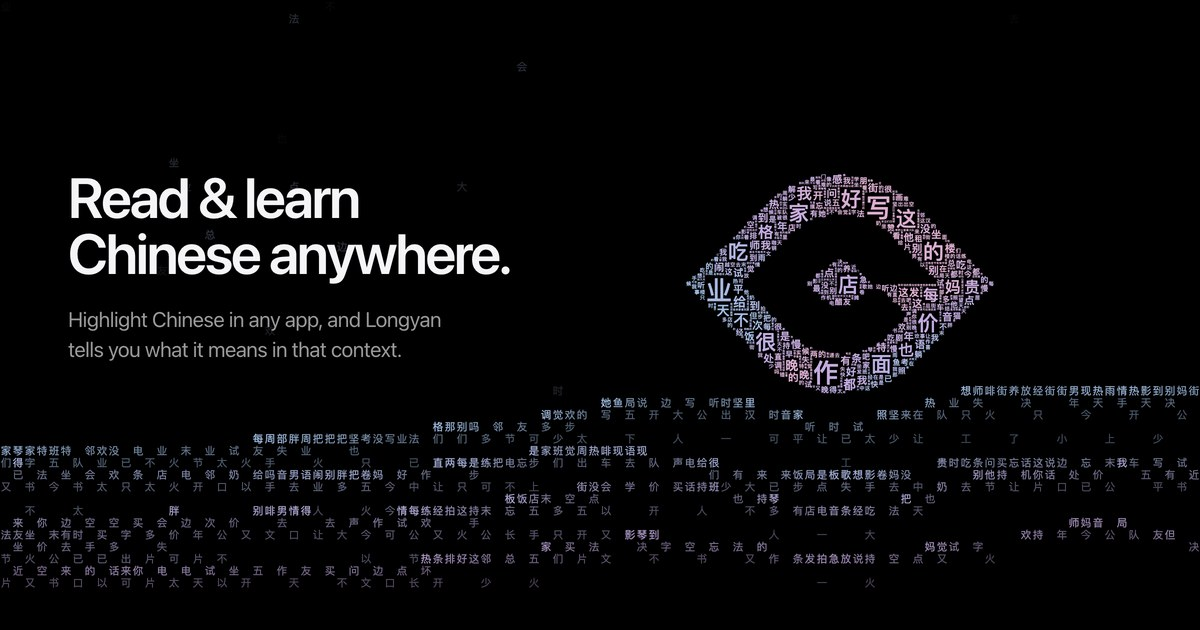
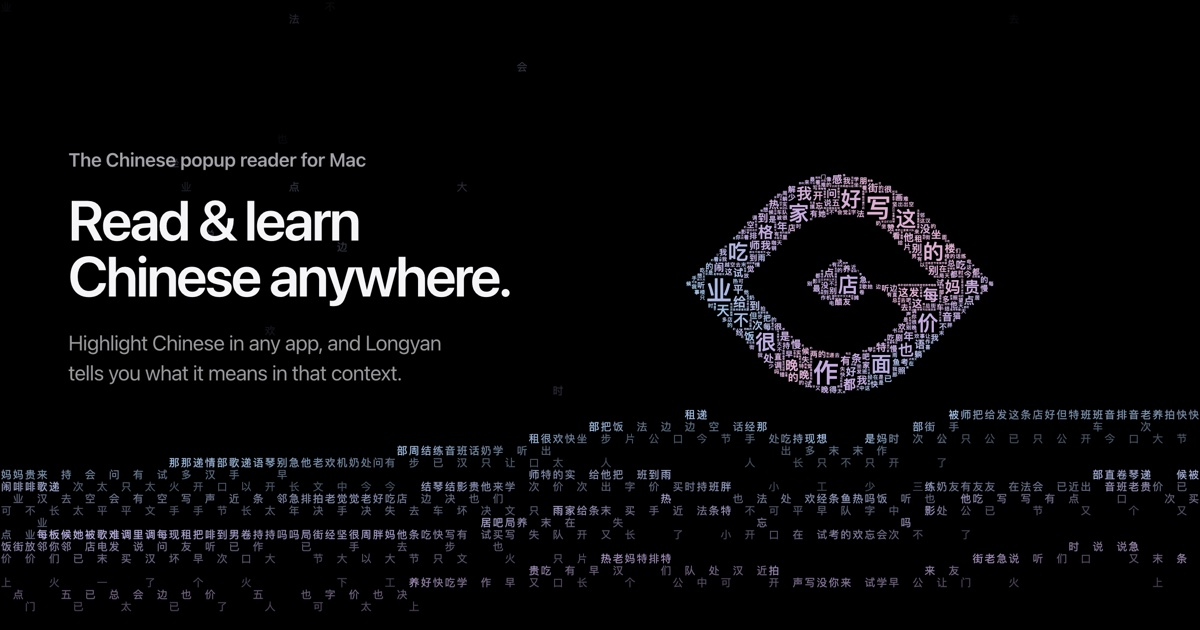
Say what the app is up front; purple in place of yellow
A line above the headline says it's the Chinese popup reader for Mac, and the line under the
download button says it's free, open source and works offline ("Windows coming soon" moves
to the closing). "See how it works", and the demo heading is "Highlight any chunk of
Chinese text." The statement's "every" and its light on the card are the system purple:
the yellow went olive over the dark card. New social preview to match.

diff --git a/site/style.css b/site/style.css
@@ -94,14 +94,16 @@ section { position: relative; }
 .is-away .hero-copy { opacity: 0; transform: translateY(calc(-50% - 40px)); pointer-events: none; }
 /* Two lines on a wide screen, "Read & Learn Chinese" and "anywhere.", sized to the space
    beside the eye. */
+.eyebrow { margin: 0 0 18px; font-size: 19px; font-weight: 600; letter-spacing: -0.012em; color: #a1a1a6; }
 h1 { font-size: min(72px, 4.7vw); line-height: 1; letter-spacing: -0.04em; }
 @media (min-width: 901px) and (orientation: landscape), (min-width: 1101px) { h1 { width: max-content; } h1 .rise > span { white-space: nowrap; } }
 .rise { display: block; overflow: hidden; padding-bottom: .08em; margin-bottom: -.08em; }
 .rise > span { display: block; }
 .hero-sub { font-size: 21px; line-height: 1.42; color: rgba(245, 245, 247, .62); margin: 24px 0 34px; max-width: 21em; text-wrap: balance; letter-spacing: -0.016em; }
 .hero-actions { display: flex; align-items: flex-start; gap: 28px; flex-wrap: wrap; }
-.download { display: flex; flex-direction: column; align-items: center; }
-.download .fine { margin: 14px 0 0; }
+.download { display: flex; flex-direction: column; align-items: flex-start; }
+/* Under the button, from its left edge, in line with the text above. */
+.download .fine { margin: 14px 0 0 2px; font-size: 14px; color: #a1a1a6; white-space: nowrap; }
 .hero-actions .button-quiet { height: 50px; }
 .button-quiet { display: inline-flex; align-items: center; gap: 6px; font-size: 17px; font-weight: 500; text-decoration: none; color: rgba(245, 245, 247, .86); transition: color .2s; }
 .button-quiet svg { width: 15px; height: 15px; fill: none; stroke: currentColor; stroke-width: 1.6; stroke-linecap: round; stroke-linejoin: round; transition: transform .3s var(--ease-out); }
@@ -123,10 +125,11 @@ h1 { font-size: min(72px, 4.7vw); line-height: 1; letter-spacing: -0.04em; }
 
 /* The opening plays in once: the lines rise, then the rest fades up. */
 .motion .rise > span { transform: translateY(105%); }
-.motion .hero-sub, .motion .hero-actions, .motion .fine { opacity: 0; transform: translateY(12px); }
+.motion .eyebrow, .motion .hero-sub, .motion .hero-actions, .motion .fine { opacity: 0; transform: translateY(12px); }
 .motion.hero-ready .rise > span { transform: none; transition: transform 1s var(--glide) .25s; }
 .motion.hero-ready .rise + .rise > span { transition-delay: .37s; }
-.motion.hero-ready .hero-sub, .motion.hero-ready .hero-actions, .motion.hero-ready .fine { opacity: 1; transform: none; transition: opacity .8s var(--glide), transform .9s var(--glide); }
+.motion.hero-ready .eyebrow, .motion.hero-ready .hero-sub, .motion.hero-ready .hero-actions, .motion.hero-ready .fine { opacity: 1; transform: none; transition: opacity .8s var(--glide), transform .9s var(--glide); }
+.motion.hero-ready .eyebrow { transition-delay: .1s; }
 .motion.hero-ready .hero-sub { transition-delay: .7s; }
 .motion.hero-ready .hero-actions { transition-delay: .82s; }
 .motion.hero-ready .fine { transition-delay: .94s; }
@@ -460,7 +463,7 @@ h1 { font-size: min(72px, 4.7vw); line-height: 1; letter-spacing: -0.04em; }
 }
 .lc-card.lc-inline { position: relative; z-index: auto; max-width: 100%; will-change: auto; }
 
-/* The statement's card, as its lines go: one light behind the meanings, amber over all of
+/* The statement's card, as its lines go: one light behind the meanings, purple over all of
    them ("every"), then drawn in onto the meaning in the sentence in the checkmark's blue
    ("one") while the other steps back, then fading as the note opens in green ("context").
    It moves and changes colour as one thing, on the app's spring; each colour is its own
@@ -475,17 +478,17 @@ h1 { font-size: min(72px, 4.7vw); line-height: 1; letter-spacing: -0.04em; }
 .lc-light.on { opacity: 1; transition: top var(--lc-motion-t) var(--lc-motion), height var(--lc-motion-t) var(--lc-motion), opacity .8s cubic-bezier(.22, 1, .36, 1); }
 .lc-light > i { position: absolute; inset: 0; border-radius: inherit; transition: opacity .55s cubic-bezier(.4, 0, .2, 1); }
 /* Apple's tinted fills: the system colour (dark appearance) as a plain wash, no outline. */
-/* A touch warmer than the system yellow: over the dark card the pure hue goes olive. */
-.lc-light > .amber { background: rgba(255, 200, 0, .34); }
+/* The system purple: warm hues go muddy over the dark card; purple stays clean. */
+.lc-light > .purple { background: rgba(191, 90, 242, .22); }
 .lc-light > .blue { background: rgba(10, 132, 255, .24); opacity: 0; }
-.lc-light.blue > .amber { opacity: 0; transition: opacity .22s cubic-bezier(.4, 0, .2, 1); }
+.lc-light.blue > .purple { opacity: 0; transition: opacity .22s cubic-bezier(.4, 0, .2, 1); }
 .lc-light.blue > .blue { opacity: 1; transition: opacity .4s cubic-bezier(.22, 1, .36, 1); }
 .lc-card.lc-locked { pointer-events: none; }
 #lit-card .lc-def { transition: color .8s cubic-bezier(.22, 1, .36, 1); }
 #lit-card .lc-def.chosen { font-weight: inherit; }
 #lit-card .lc-note { background: rgba(48, 209, 88, .14); }
 #lit-card .lc-note-head, #lit-card .lc-note-head .culture { color: #30d158; }
-.lit .every { color: #ffd60a; }
+.lit .every { color: #bf5af2; }
 .lit .ctx { color: #30d158; }
 /* It is as tall as its content, so it has nothing to scroll: a swipe on it scrolls the page. */
 .lc-inline .lc-scroll { overflow: visible; overscroll-behavior: auto; }
@@ -679,6 +682,7 @@ footer a { color: #a1a1a6; }
   .closing { padding: 120px 0 130px; }
   .hero-sub { margin: 16px 0 24px; }
   .hero-actions { gap: 22px; }
+  .eyebrow { font-size: 16px; margin-bottom: 12px; }
   .try-head p { font-size: 16px; }
   .lit-line { font-size: 30px; }
   .statement { padding: 60px 0 150px; }

diff --git a/site/index.html b/site/index.html
@@ -3,17 +3,17 @@
 <head>
 <meta charset="utf-8">
 <meta name="viewport" content="width=device-width, initial-scale=1, viewport-fit=cover">
-<title>Longyan Reader: read Chinese in any app on your Mac</title>
-<meta name="description" content="Highlight Chinese text in any app on your Mac and see what each word means in that context. Free, open source, and it runs entirely on your Mac.">
+<title>Longyan Reader: the Chinese popup reader for Mac</title>
+<meta name="description" content="A Chinese popup reader for Mac. Highlight Chinese in any app and see what it means in that context. Free, open source, and works offline.">
 <meta name="theme-color" content="#000000">
 <meta property="og:title" content="Longyan Reader">
-<meta property="og:description" content="Highlight Chinese text in any app on your Mac and see what each word means in that context.">
+<meta property="og:description" content="The Chinese popup reader for Mac. Highlight Chinese in any app and see what it means in that context.">
 <meta property="og:image" content="https://longyan.app/images/og.jpg">
 <meta property="og:url" content="https://longyan.app/">
 <meta name="twitter:card" content="summary_large_image">
 <link rel="icon" type="image/png" href="images/favicon.png">
 <link rel="apple-touch-icon" href="images/icon.png">
-<link rel="stylesheet" href="style.css?v=1117v">
+<link rel="stylesheet" href="style.css?v=1117w">
 <script>
   // Scroll motion, unless the visitor asked for less (or ?still, for screenshots).
   if (!matchMedia("(prefers-reduced-motion: reduce)").matches && !/[?&]still/.test(location.search)) document.documentElement.classList.add("motion");
@@ -39,19 +39,20 @@
     <canvas id="field" aria-hidden="true"></canvas>
     <p class="hint" id="hint" aria-hidden="true"><span class="fine-pointer">Point at a word in the eye.</span><span class="coarse-pointer">Tap a word in the eye.</span></p>
     <div class="hero-copy">
+      <p class="eyebrow">The Chinese popup reader for Mac</p>
       <h1><span class="rise"><span>Read &amp; learn</span></span> <span class="rise"><span>Chinese anywhere.</span></span></h1>
       <p class="hero-sub">Highlight Chinese in any app, and Longyan tells you what it means in that context.</p>
       <div class="hero-actions">
         <div class="download">
           <a class="button" href="https://github.com/mapuchuu/longyan-reader/releases/latest/download/LongyanReader.zip" data-download>Download for Mac</a>
-          <p class="fine">Windows coming soon</p>
+          <p class="fine">Free, open source, and works offline.</p>
         </div>
-        <a class="button-quiet" href="#try" data-try>How it works <svg viewBox="0 0 16 16" aria-hidden="true"><path d="M8 3v10M3.5 8.5 8 13l4.5-4.5"/></svg></a>
+        <a class="button-quiet" href="#try" data-try>See how it works <svg viewBox="0 0 16 16" aria-hidden="true"><path d="M8 3v10M3.5 8.5 8 13l4.5-4.5"/></svg></a>
       </div>
     </div>
     <div class="try" id="try">
       <div class="try-head">
-        <h2><span class="hl">Highlight</span> anything.</h2>
+        <h2><span class="hl">Highlight</span> any chunk of Chinese text.</h2>
       </div>
       <div class="lines" id="lines" lang="zh-CN"></div>
       <p class="try-cue" aria-hidden="true">Try it here<svg viewBox="0 0 16 16"><circle cx="8" cy="8" r="6.75"/><path d="M8 11.25v-6.5M5.25 7.25 8 4.5l2.75 2.75"/></svg></p>
@@ -214,7 +215,7 @@
     <h2>Free, and open source.</h2>
     <p>No account, no subscription. The code is on <a href="https://github.com/mapuchuu/longyan-reader">GitHub</a> under the MIT license.</p>
     <a class="button" href="https://github.com/mapuchuu/longyan-reader/releases/latest/download/LongyanReader.zip" data-download>Download for Mac</a>
-    <p class="closing-fine">Apple silicon, macOS 15 or later.</p>
+    <p class="closing-fine">Apple silicon, macOS 15 or later. Windows coming soon.</p>
   </div>
 </section>
 
@@ -227,11 +228,11 @@
   </div>
 </footer>
 
-<script src="data.js?v=1117v"></script>
-<script src="card.js?v=1117v"></script>
-<script src="hero.js?v=1117v"></script>
-<script src="try.js?v=1117v"></script>
-<script src="paper.js?v=1117v"></script>
-<script src="motion.js?v=1117v"></script>
+<script src="data.js?v=1117w"></script>
+<script src="card.js?v=1117w"></script>
+<script src="hero.js?v=1117w"></script>
+<script src="try.js?v=1117w"></script>
+<script src="paper.js?v=1117w"></script>
+<script src="motion.js?v=1117w"></script>
 </body>
 </html>

diff --git a/site/card.js b/site/card.js
@@ -545,7 +545,7 @@
 
   // `staged`: the card starts as a dictionary would show it, the word and every meaning, none
   // picked, and the returned card's stage(n) brings in the rest. One light does it: 1 lights
-  // every meaning in amber; 2 opens the meaning in the sentence under the word as the
+  // every meaning in purple; 2 opens the meaning in the sentence under the word as the
   // light draws in onto that meaning and turns blue, its check springs in and the other
   // meaning steps back; 3 opens the note as the light fades. Until then the card can't be
   // clicked, so nothing breaks the sequence. Nothing in it changes size or re-wraps as it
@@ -655,7 +655,7 @@
         first = false;
       };
 
-      // The statement's light: one box behind the meanings, amber over all of them, then blue
+      // The statement's light: one box behind the meanings, purple over all of them, then blue
       // over the one picked, then gone. It moves and changes colour as one thing; each colour
       // is its own layer so they cross-fade rather than mixing.
       let light = null;
@@ -663,7 +663,7 @@
         const senses = q(".lc-senses"), rows = [...q(".lc-list").querySelectorAll(".lc-row[data-i]")];
         if (!rows.length) return;
         if (!light) {
-          light = h("div", "lc-light", '<i class="amber"></i><i class="blue"></i>');
+          light = h("div", "lc-light", '<i class="purple"></i><i class="blue"></i>');
           senses.prepend(light);
         }
         const target = picked != null ? rows.find((r) => +r.dataset.i === picked) : null;

diff --git a/site/DESIGN.md b/site/DESIGN.md
@@ -22,8 +22,8 @@ Paper backdrops (`paper.js`) are five-stop ramps, deep to light: azure, rose, gr
 
 ## Layout
 
-1. **Story.** Pinned while it plays. The Longyan eye over a range of mountains, all of it in Chinese characters. The mountains are a halftone made of characters: light ones (一, 人) where it's dim, dense ones where it's bright, none where it's dark, with mist drifting through. A few faint characters are stars. The eye is set in everyday sentences, in pearl tints, in characters of nine sizes. Every character is whole; nothing is masked or cut. On the outline a character may stand a hair past the edge (well inside the blank margin round its ink, so the outline stays crisp), so the outline takes every size from fine to large and reads as type rather than a stencil. A few small characters sit right across the point where the pupil meets the wedge, so the hook reads as one stroke, as in the icon. Characters too thin to fill their square, like 一 and 人, are left out of it. It comes in left to right. Pointing at a character shows the word it's part of and what it means in that sentence, from the app. Scrolling breaks the eye up, and its characters float out from all over, in arcs, into one large sentence (up to 64px on a wide screen, 40px on a phone). Most come from the eye's big characters, so you see them lift out of the shape. Selecting works as in any Mac text: drag across characters, double-click a word, triple-click the sentence, shift-click to extend. Let go and the app's card opens for what the app reads there, while the selection stays exactly where it was made, as in any app. One character is one character, and its card says which word it's part of (a click on that row opens the word's card in its place); a selection that cuts a word in half gets the card for the whole word, as the app widens it. Every selection the sentence allows has the app's own answer. No marks under the words. There is one sentence; no "Next sentence". It hands over from the canvas to selectable text in a single frame, with no fade, so nothing doubles or flashes; only the heading, "Highlight anything.", fades in. Then the page holds for 1.2 screens of scrolling. As you scroll, "Highlight" is selected the way you'd drag across it (the selection follows the scroll, and shrinks going back); once it's selected the sentence catches the light character by character and "Try it here", with a small arrow in a circle pointing up at the sentence, comes in under it and stays. Two bars under the sentence fill as you scroll: the first with the selection, the second while you try it. The opening glides: an even pace, easing to a stop only at the end.
-2. **Statement.** Three lines, shown one at a time ("Traditional dictionaries give you every meaning." with "every" in amber / "Longyan gives you the one your sentence means," with "one" in the checkmark's blue / "and flags words that need more context." with "context" in green), beside the app's real word card for 躺平 in the demo sentence, built into the page. The section is pinned for three stretches of scrolling, 60vh each, one per line; three short bars under the line fill as you scroll through each stretch, so you can see how far along you are. The next line only comes once you've scrolled to the end of the last one's stretch, and never sooner than 1.2 s after it, so each line and its card change settle first; the old line lifts away and the new one rises in. The card shows a little more with each line, in that line's colour, with one light behind the meanings: first just 躺平, its pinyin and both meanings, with one yellow box over both a moment after it comes in ("every" is yellow too); then "to opt out of the rat race" opens in under the word as the box draws in onto that meaning on the app's spring as it turns blue, the check springs in and the other meaning steps back; then the "Cultural context" note opens in green as the blue fades. The light is a plain wash with no outline, its yellow a touch warmer than the system's so it doesn't go olive on the dark card; each colour is its own layer, so they cross-fade without a muddy mix. Until the note is in, the card can't be clicked, so nothing breaks the sequence; after that it works like the app (and going back up resets it). Nothing in it re-wraps or snaps: it hugs its content, the space above the meaning opens with it, the pick isn't set in bold, there's no note mark, and going back up closes things smoothly. The same care holds for the card in the try section: rows restyle in place, so a pick's check springs in while the old one fades, and "Back to …" and the captions open and close. The content is set from the top, so the card grows downward and the line never moves. Scrolling back up undoes it all in order. It works the same on a phone, with the card under the line. On a wide screen the section is pulled up over the opening's last 35vh, so the first line and the card rise in right behind the demo sentence. Without motion the lines simply stack beside the whole card. A click on a meaning shows the whole card.
+1. **Story.** Pinned while it plays. The Longyan eye over a range of mountains, all of it in Chinese characters. The mountains are a halftone made of characters: light ones (一, 人) where it's dim, dense ones where it's bright, none where it's dark, with mist drifting through. A few faint characters are stars. The eye is set in everyday sentences, in pearl tints, in characters of nine sizes. Every character is whole; nothing is masked or cut. On the outline a character may stand a hair past the edge (well inside the blank margin round its ink, so the outline stays crisp), so the outline takes every size from fine to large and reads as type rather than a stencil. A few small characters sit right across the point where the pupil meets the wedge, so the hook reads as one stroke, as in the icon. Characters too thin to fill their square, like 一 and 人, are left out of it. It comes in left to right. Pointing at a character shows the word it's part of and what it means in that sentence, from the app. Scrolling breaks the eye up, and its characters float out from all over, in arcs, into one large sentence (up to 64px on a wide screen, 40px on a phone). Most come from the eye's big characters, so you see them lift out of the shape. Selecting works as in any Mac text: drag across characters, double-click a word, triple-click the sentence, shift-click to extend. Let go and the app's card opens for what the app reads there, while the selection stays exactly where it was made, as in any app. One character is one character, and its card says which word it's part of (a click on that row opens the word's card in its place); a selection that cuts a word in half gets the card for the whole word, as the app widens it. Every selection the sentence allows has the app's own answer. No marks under the words. There is one sentence; no "Next sentence". It hands over from the canvas to selectable text in a single frame, with no fade, so nothing doubles or flashes; only the heading, "Highlight any chunk of Chinese text.", fades in. Then the page holds for 1.2 screens of scrolling. As you scroll, "Highlight" is selected the way you'd drag across it (the selection follows the scroll, and shrinks going back); once it's selected the sentence catches the light character by character and "Try it here", with a small arrow in a circle pointing up at the sentence, comes in under it and stays. Two bars under the sentence fill as you scroll: the first with the selection, the second while you try it. The opening glides: an even pace, easing to a stop only at the end.
+2. **Statement.** Three lines, shown one at a time ("Traditional dictionaries give you every meaning." with "every" in the system purple / "Longyan gives you the one your sentence means," with "one" in the checkmark's blue / "and flags words that need more context." with "context" in green), beside the app's real word card for 躺平 in the demo sentence, built into the page. The section is pinned for three stretches of scrolling, 60vh each, one per line; three short bars under the line fill as you scroll through each stretch, so you can see how far along you are. The next line only comes once you've scrolled to the end of the last one's stretch, and never sooner than 1.2 s after it, so each line and its card change settle first; the old line lifts away and the new one rises in. The card shows a little more with each line, in that line's colour, with one light behind the meanings: first just 躺平, its pinyin and both meanings, with one purple box over both a moment after it comes in ("every" is purple too); then "to opt out of the rat race" opens in under the word as the box draws in onto that meaning on the app's spring as it turns blue, the check springs in and the other meaning steps back; then the "Cultural context" note opens in green as the blue fades. The light is a plain wash with no outline, in purple because warm hues (yellow, orange) go muddy over the dark card; each colour is its own layer, so they cross-fade without a muddy mix. Until the note is in, the card can't be clicked, so nothing breaks the sequence; after that it works like the app (and going back up resets it). Nothing in it re-wraps or snaps: it hugs its content, the space above the meaning opens with it, the pick isn't set in bold, there's no note mark, and going back up closes things smoothly. The same care holds for the card in the try section: rows restyle in place, so a pick's check springs in while the old one fades, and "Back to …" and the captions open and close. The content is set from the top, so the card grows downward and the line never moves. Scrolling back up undoes it all in order. It works the same on a phone, with the card under the line. On a wide screen the section is pulled up over the opening's last 35vh, so the first line and the card rise in right behind the demo sentence. Without motion the lines simply stack beside the whole card. A click on a meaning shows the whole card.
 3. **Works where you read.** Full-bleed azure paper. A frosted window, cut off by the section's bottom edge, holds the recording.
 4. **Made for reading.** Four tiles: a piece of the real UI on paper, with a caption.
 5. **Install.** A grey band. The Open Anyway row from System Settings on paper, next to the four steps.
